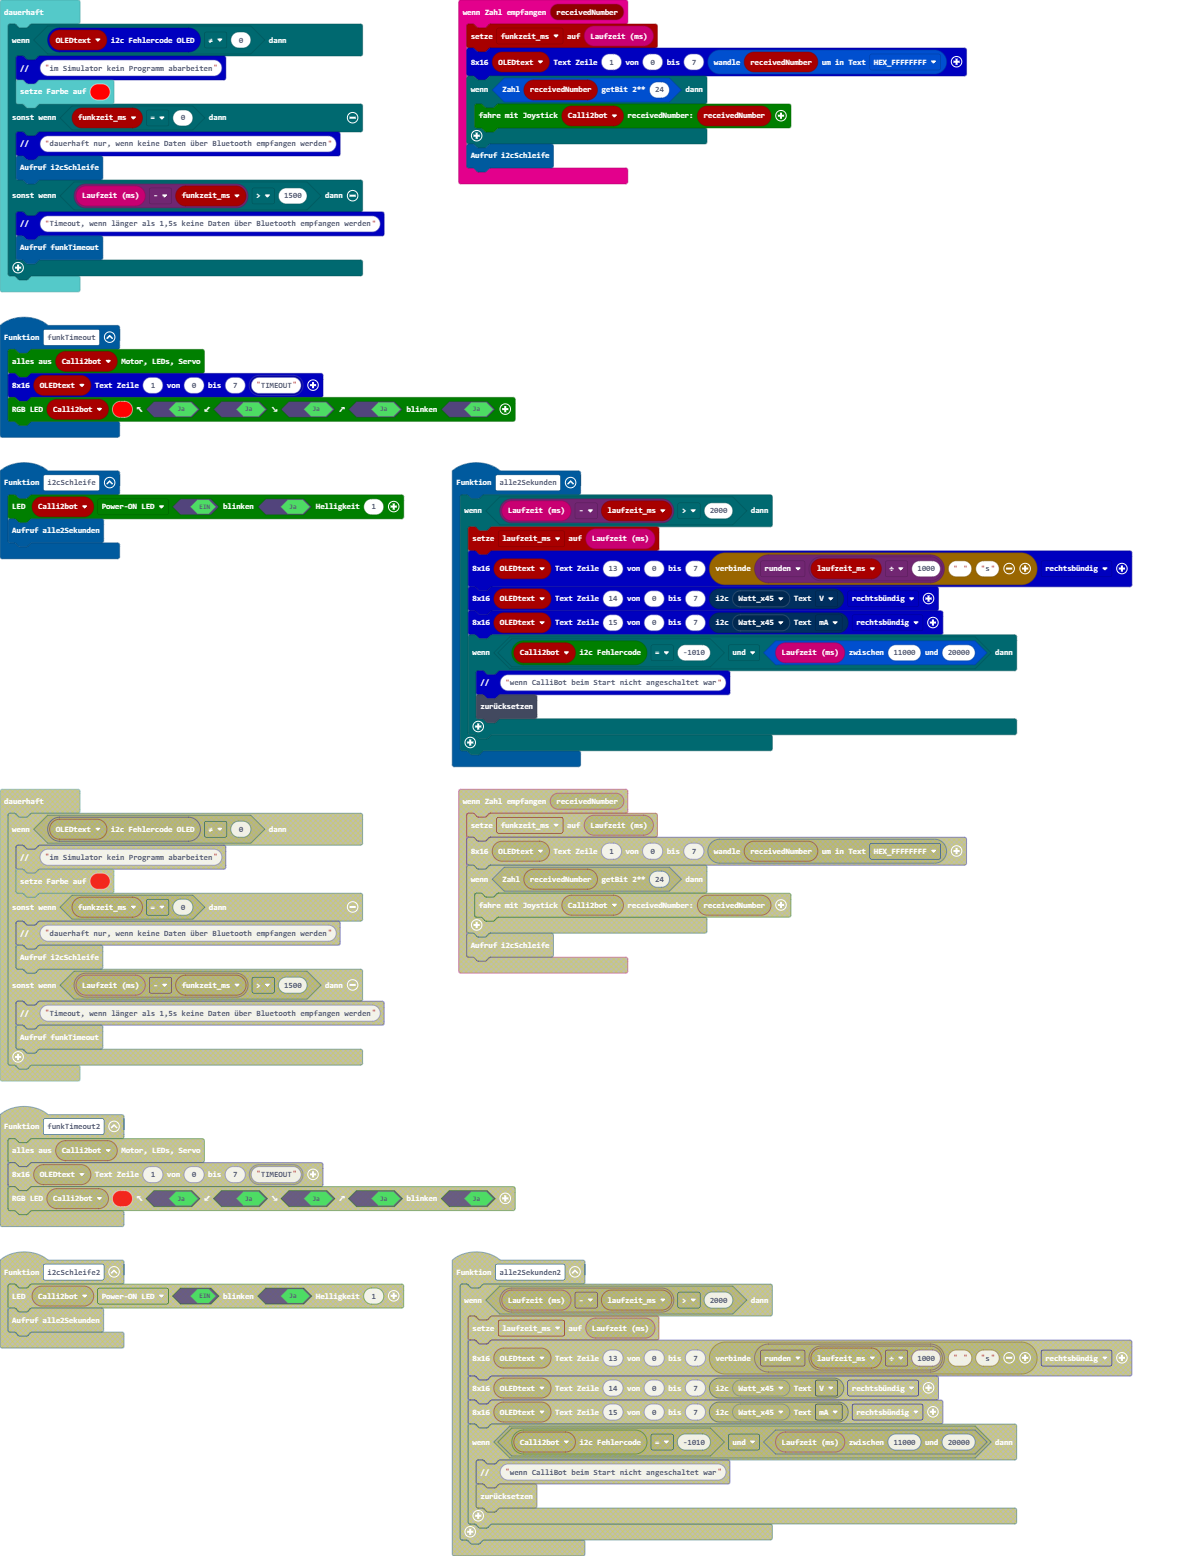
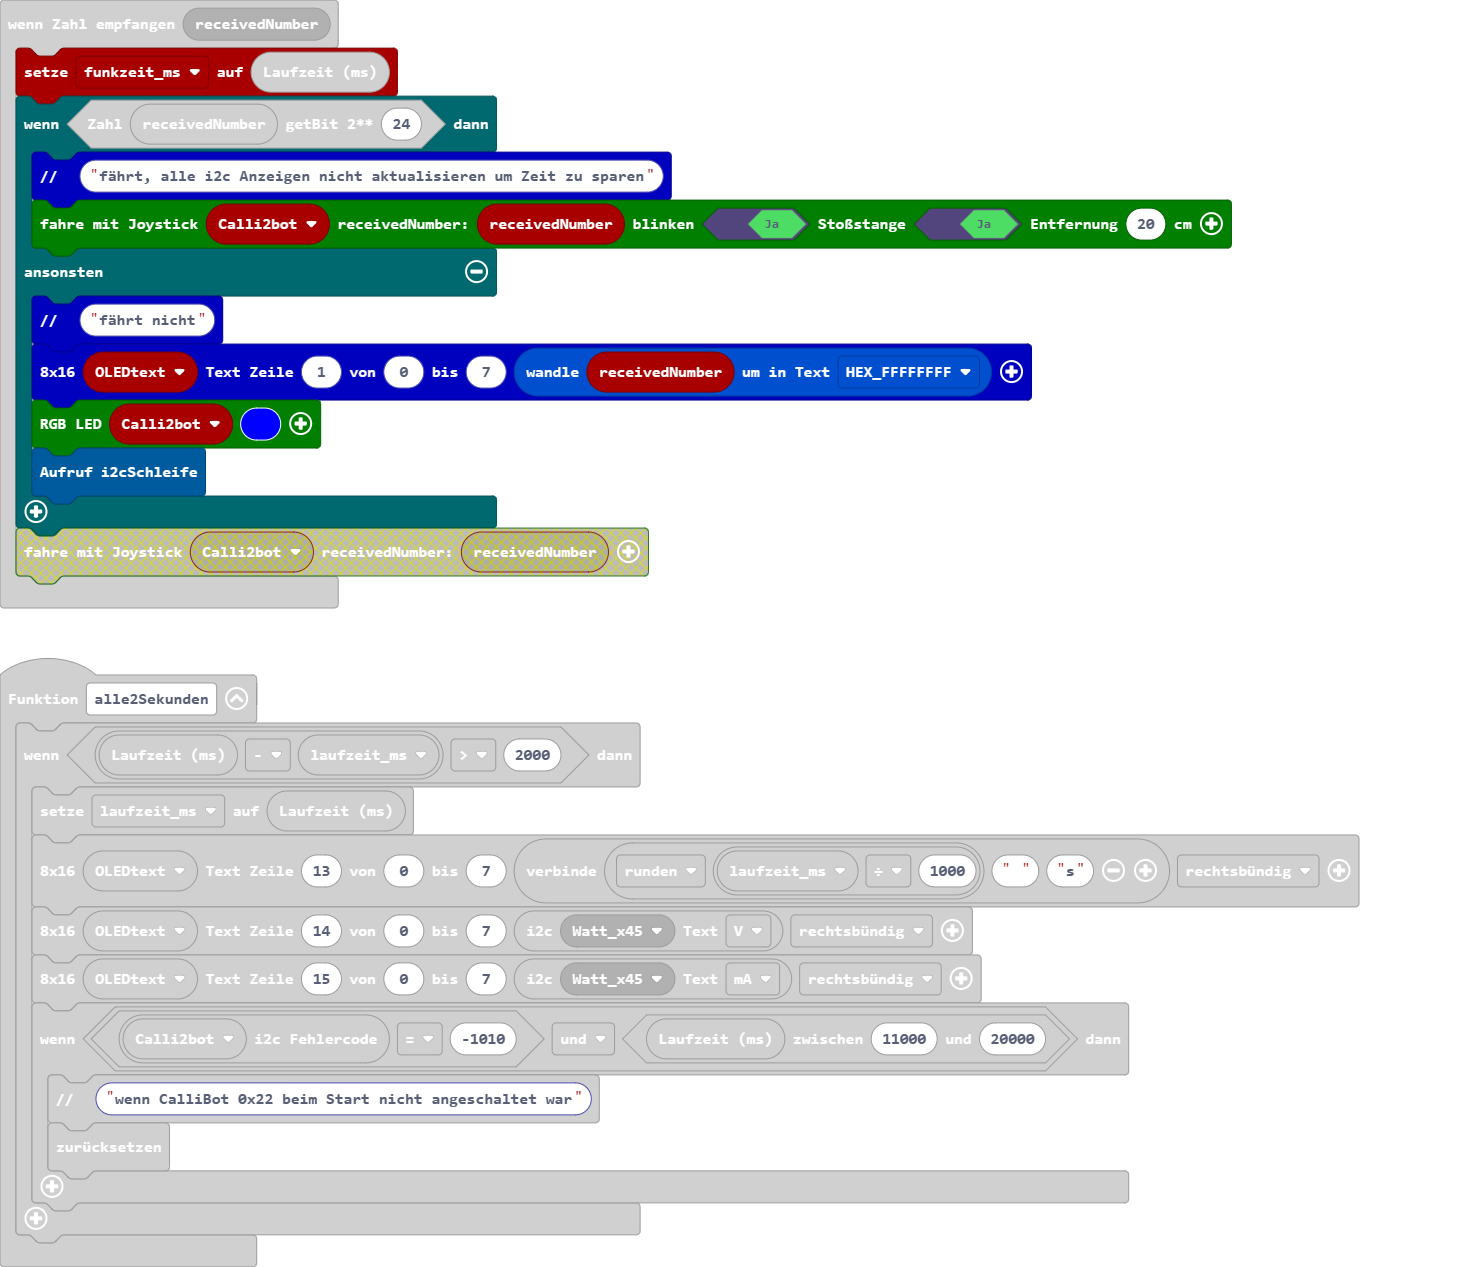
Aktualisiere pxt.json, main.blocks, main.ts

diff --git a/main.ts b/main.ts
@@ -1,10 +1,14 @@
 radio.onReceivedNumber(function (receivedNumber) {
     funkzeit_ms = input.runningTime()
-    OLEDtext.writeText8x16(1, 0, 7, bit.formatNumber(receivedNumber, bit.eLength.HEX_FFFFFFFF))
     if (bit.getBit(receivedNumber, 24)) {
-        Calli2bot.fahreJoystick(receivedNumber)
+        oled.comment("fährt, alle i2c Anzeigen nicht aktualisieren um Zeit zu sparen")
+        Calli2bot.fahreJoystick(receivedNumber, true, true)
+    } else {
+        oled.comment("fährt nicht")
+        OLEDtext.writeText8x16(1, 0, 7, bit.formatNumber(receivedNumber, bit.eLength.HEX_FFFFFFFF))
+        Calli2bot.setRgbLed3(0x0000ff)
+        i2cSchleife()
     }
-    i2cSchleife()
 })
 function funkTimeout () {
     Calli2bot.i2cRESET_OUTPUTS()
@@ -30,7 +34,7 @@ function alle2Sekunden () {
         OLEDtext.writeText8x16(14, 0, 7, wattmeter.statuszeile(wattmeter.wattmeter_eADDR(wattmeter.eADDR.Watt_x45), wattmeter.eStatuszeile.v), oled.eAlign.rechts)
         OLEDtext.writeText8x16(15, 0, 7, wattmeter.statuszeile(wattmeter.wattmeter_eADDR(wattmeter.eADDR.Watt_x45), wattmeter.eStatuszeile.mA), oled.eAlign.rechts)
         if (Calli2bot.geti2cError() == -1010 && bit.between(input.runningTime(), 11000, 20000)) {
-            oled.comment("wenn CalliBot beim Start nicht angeschaltet war")
+            oled.comment("wenn CalliBot 0x22 beim Start nicht angeschaltet war")
             control.reset()
         }
     }
